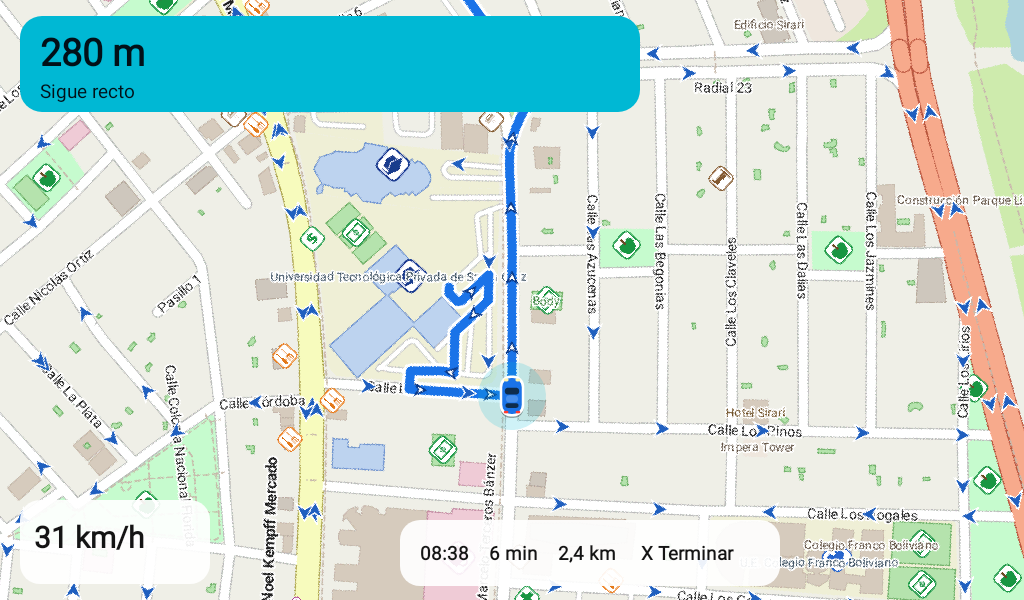
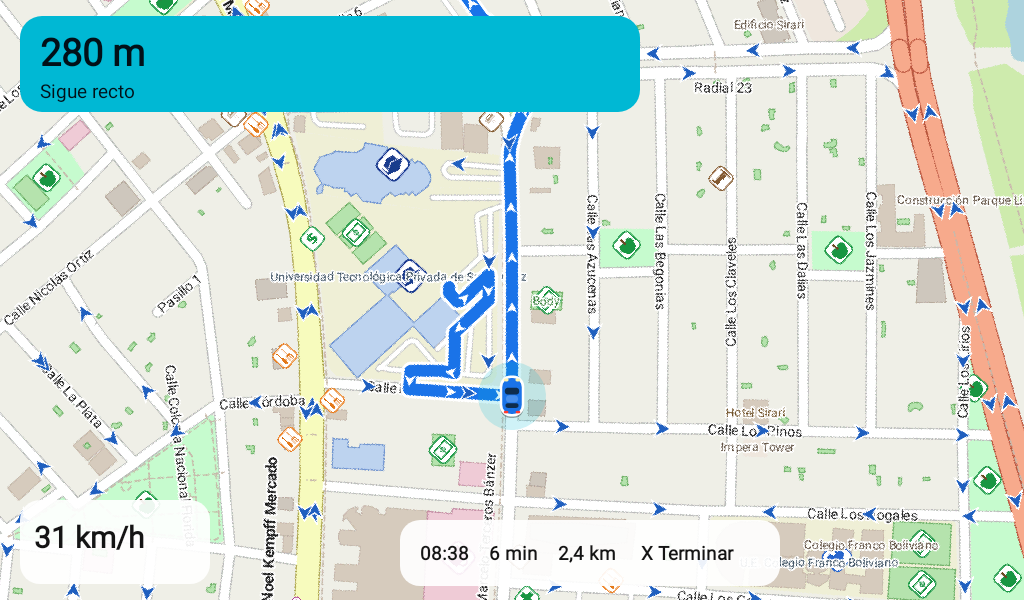
Boton SALIR del modo manejo visible, flechas blancas mas grandes sobre la ruta, version real en Diagnostico y capturas actualizadas (1.0.11)

Changed region(s): [[0.375, 0.33, 0.5312, 0.69], [0.4688, 0.18, 0.5312, 0.27], [0.4375, 0.0, 0.4688, 0.03]]

diff --git a/launcher/app/src/main/java/org/opencar/launcher/MapActivity.kt b/launcher/app/src/main/java/org/opencar/launcher/MapActivity.kt
@@ -346,8 +346,8 @@ class MapActivity : Activity(), LocationListener {
         sn0?.let { sn -> mv.layerManager.layers.add(sn.NombresLayer(sc, night) { mapView?.rotation ?: 0f }) }
         val gf = AndroidGraphicFactory.INSTANCE
         fun paint(color: Int, w: Float) = gf.createPaint().apply { setColor(color); strokeWidth = w * sc; setStyle(Style.STROKE); setStrokeCap(Cap.ROUND) }
-        casing = Polyline(paint(if (night) 0xFF06202A.toInt() else Color.WHITE, 15f), gf)
-        routeLine = Polyline(paint(if (night) 0xFF00B8D4.toInt() else 0xFF1A73E8.toInt(), 9f), gf)
+        casing = Polyline(paint(if (night) 0xFF06202A.toInt() else Color.WHITE, 18f), gf)
+        routeLine = Polyline(paint(if (night) 0xFF00B8D4.toInt() else 0xFF1A73E8.toInt(), 12f), gf)
         mv.layerManager.layers.add(casing)
         mv.layerManager.layers.add(routeLine)
         rutaFlechas = RutaFlechas().also { mv.layerManager.layers.add(it) }
@@ -1035,14 +1035,13 @@ class MapActivity : Activity(), LocationListener {
     inner class RutaFlechas : Layer() {
         private var la: DoubleArray? = null; private var lo: DoubleArray? = null
         private val fill = Paint(Paint.ANTI_ALIAS_FLAG).apply { color = Color.WHITE; style = Paint.Style.FILL }
-        private val edge = Paint(Paint.ANTI_ALIAS_FLAG).apply { color = 0xFF0B3A8A.toInt(); style = Paint.Style.STROKE; strokeWidth = 1.5f * sc }
         fun set(a: DoubleArray?, o: DoubleArray?) { la = a; lo = o; requestRedraw() }
         override fun draw(bb: BoundingBox, z: Byte, canvas: org.mapsforge.core.graphics.Canvas, tl: Point) {
             val a = la ?: return; val o = lo ?: return
             if (a.size < 2 || z < 14) return
             val ms = MercatorProjection.getMapSize(z, displayModel.tileSize)
             val c = AndroidGraphicFactory.getCanvas(canvas)
-            val step = 70f * sc; val s = 5.2f * sc
+            val step = 50f * sc; val s = 5.6f * sc
             var acc = step / 2
             var px = (MercatorProjection.longitudeToPixelX(o[0], ms) - tl.x).toFloat(); var py = (MercatorProjection.latitudeToPixelY(a[0], ms) - tl.y).toFloat()
             for (i in 1 until a.size) {
@@ -1059,7 +1058,7 @@ class MapActivity : Activity(), LocationListener {
                             p.lineTo(cx - ux * s * 0.8f - uy * s, cy - uy * s * 0.8f + ux * s)
                             p.lineTo(cx - ux * s * 0.2f, cy - uy * s * 0.2f)
                             p.lineTo(cx - ux * s * 0.8f + uy * s, cy - uy * s * 0.8f - ux * s)
-                            p.close(); c.drawPath(p, fill); c.drawPath(p, edge)
+                            p.close(); c.drawPath(p, fill)
                         }
                         d += step
                     }

diff --git a/launcher/app/src/main/java/org/opencar/launcher/MainActivity.kt b/launcher/app/src/main/java/org/opencar/launcher/MainActivity.kt
@@ -369,7 +369,7 @@ class MainActivity : Activity() {
             setPadding(p(16), p(8), p(16), p(8)); isClickable = true
             background = GradientDrawable().apply { cornerRadius = p(20).toFloat(); setColor(Color.parseColor("#33FFFFFF")); setStroke(max(1, p(1)), Color.parseColor("#66FFFFFF")) }
             setOnClickListener { setDrive(false) }
-        }, FrameLayout.LayoutParams(WRAP_CONTENT, WRAP_CONTENT, Gravity.TOP or Gravity.END).apply { setMargins(0, p(10), p(14), 0) })
+        }, FrameLayout.LayoutParams(WRAP_CONTENT, WRAP_CONTENT, Gravity.BOTTOM or Gravity.END).apply { setMargins(0, 0, p(14), p(16)) })   // abajo a la derecha: arriba lo tapaba la barra de estado
         driveLayer = lay
         return lay
     }
@@ -5017,7 +5017,7 @@ class MainActivity : Activity() {
         header.addView(tile("‹  Inicio", null, 0f, 20f, { page = Page.HOME; render() }),
             LinearLayout.LayoutParams(p(170), p(64)))
         header.addView(TextView(this).apply {
-            text = "Diagnóstico y ajustes  ·  v2.34"
+            text = "Diagnóstico y ajustes  ·  v" + (try { packageManager.getPackageInfo(packageName, 0).versionName } catch (e: Throwable) { "" })
             size(22f); setTextColor(Color.WHITE); typeface = Typeface.DEFAULT_BOLD
             setPadding(p(24), 0, 0, 0)
         })
